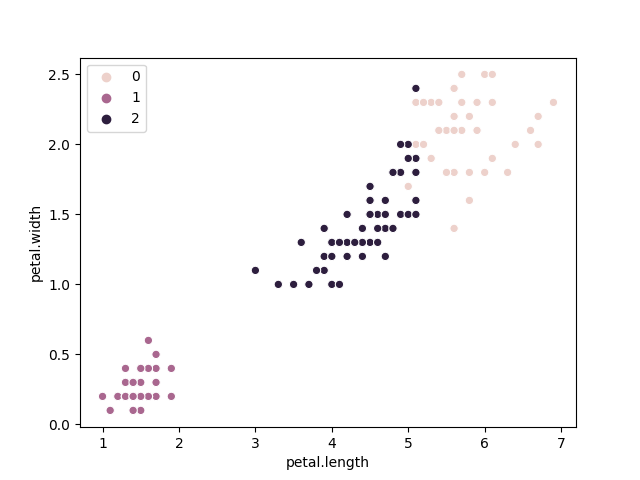
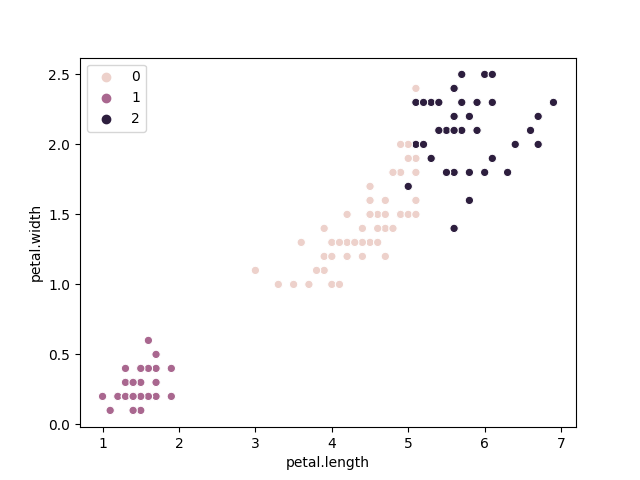
Final version

diff --git a/purity.py b/purity.py
@@ -1,36 +1,27 @@
 import pandas as pd
 import numpy as np
-import matplotlib.pyplot as plt
-import matplotlib
 from sklearn.cluster import KMeans
-from sklearn import datasets
 import numpy as np
 from sklearn import metrics
 import seaborn as sns
 
-
+# Function to visualize groups
 def visualize(df, n_cluster):
     s = sns.scatterplot(data=df, x="petal.length", y="petal.width", hue=df['pred'].tolist())
     fig = s.get_figure()
     fig.savefig('image/kmeans_clusters_{}.png'.format(n_cluster))
     fig.clf()
 
+# Function to apply kmeans
 def apply_model(x, k):
     Model = KMeans(k)
     Model.fit(x)
     return Model
 
-def select(x):
-    if x == 'Setosa':
-        return '0'
-    if x == 'Versicolor':
-        return '1'
-    else:
-        return '2'
-
+# Function to calculate purity
 def purity(df):
-    df['pred'].apply(lambda x: select(x))
     confusion_matrix = metrics.cluster.contingency_matrix(df['variety'], df['pred'])
+    # Taking the sum of the ratings and dividing by the total
     return np.sum(np.amax(confusion_matrix, axis=0)) / np.sum(confusion_matrix) 
 
 if __name__ == "__main__":
@@ -38,18 +29,20 @@ if __name__ == "__main__":
     df = pd.read_csv('dataset/iris.csv', sep = ",")
     x = df[['sepal.length','sepal.width','petal.length','petal.width']]
     
-
+    # Running k-means for each cluster number
     for n_cluster in [2,3,4]:
         # Apply model
         Model = apply_model(x, n_cluster)
 
-        # Save result in a column
+        import pdb; pdb.set_trace()
+
+        # Saving result model in a column
         df['pred'] = Model.labels_
 
-        # Save results in png file
+        # Saving results in png file
         visualize(df, n_cluster)
     
-        # Calculate purity
+        # Calculating purity
         purity_value = purity(df)
 
         print('The purity value with {} clusters is: '.format(str(n_cluster)), purity_value)
